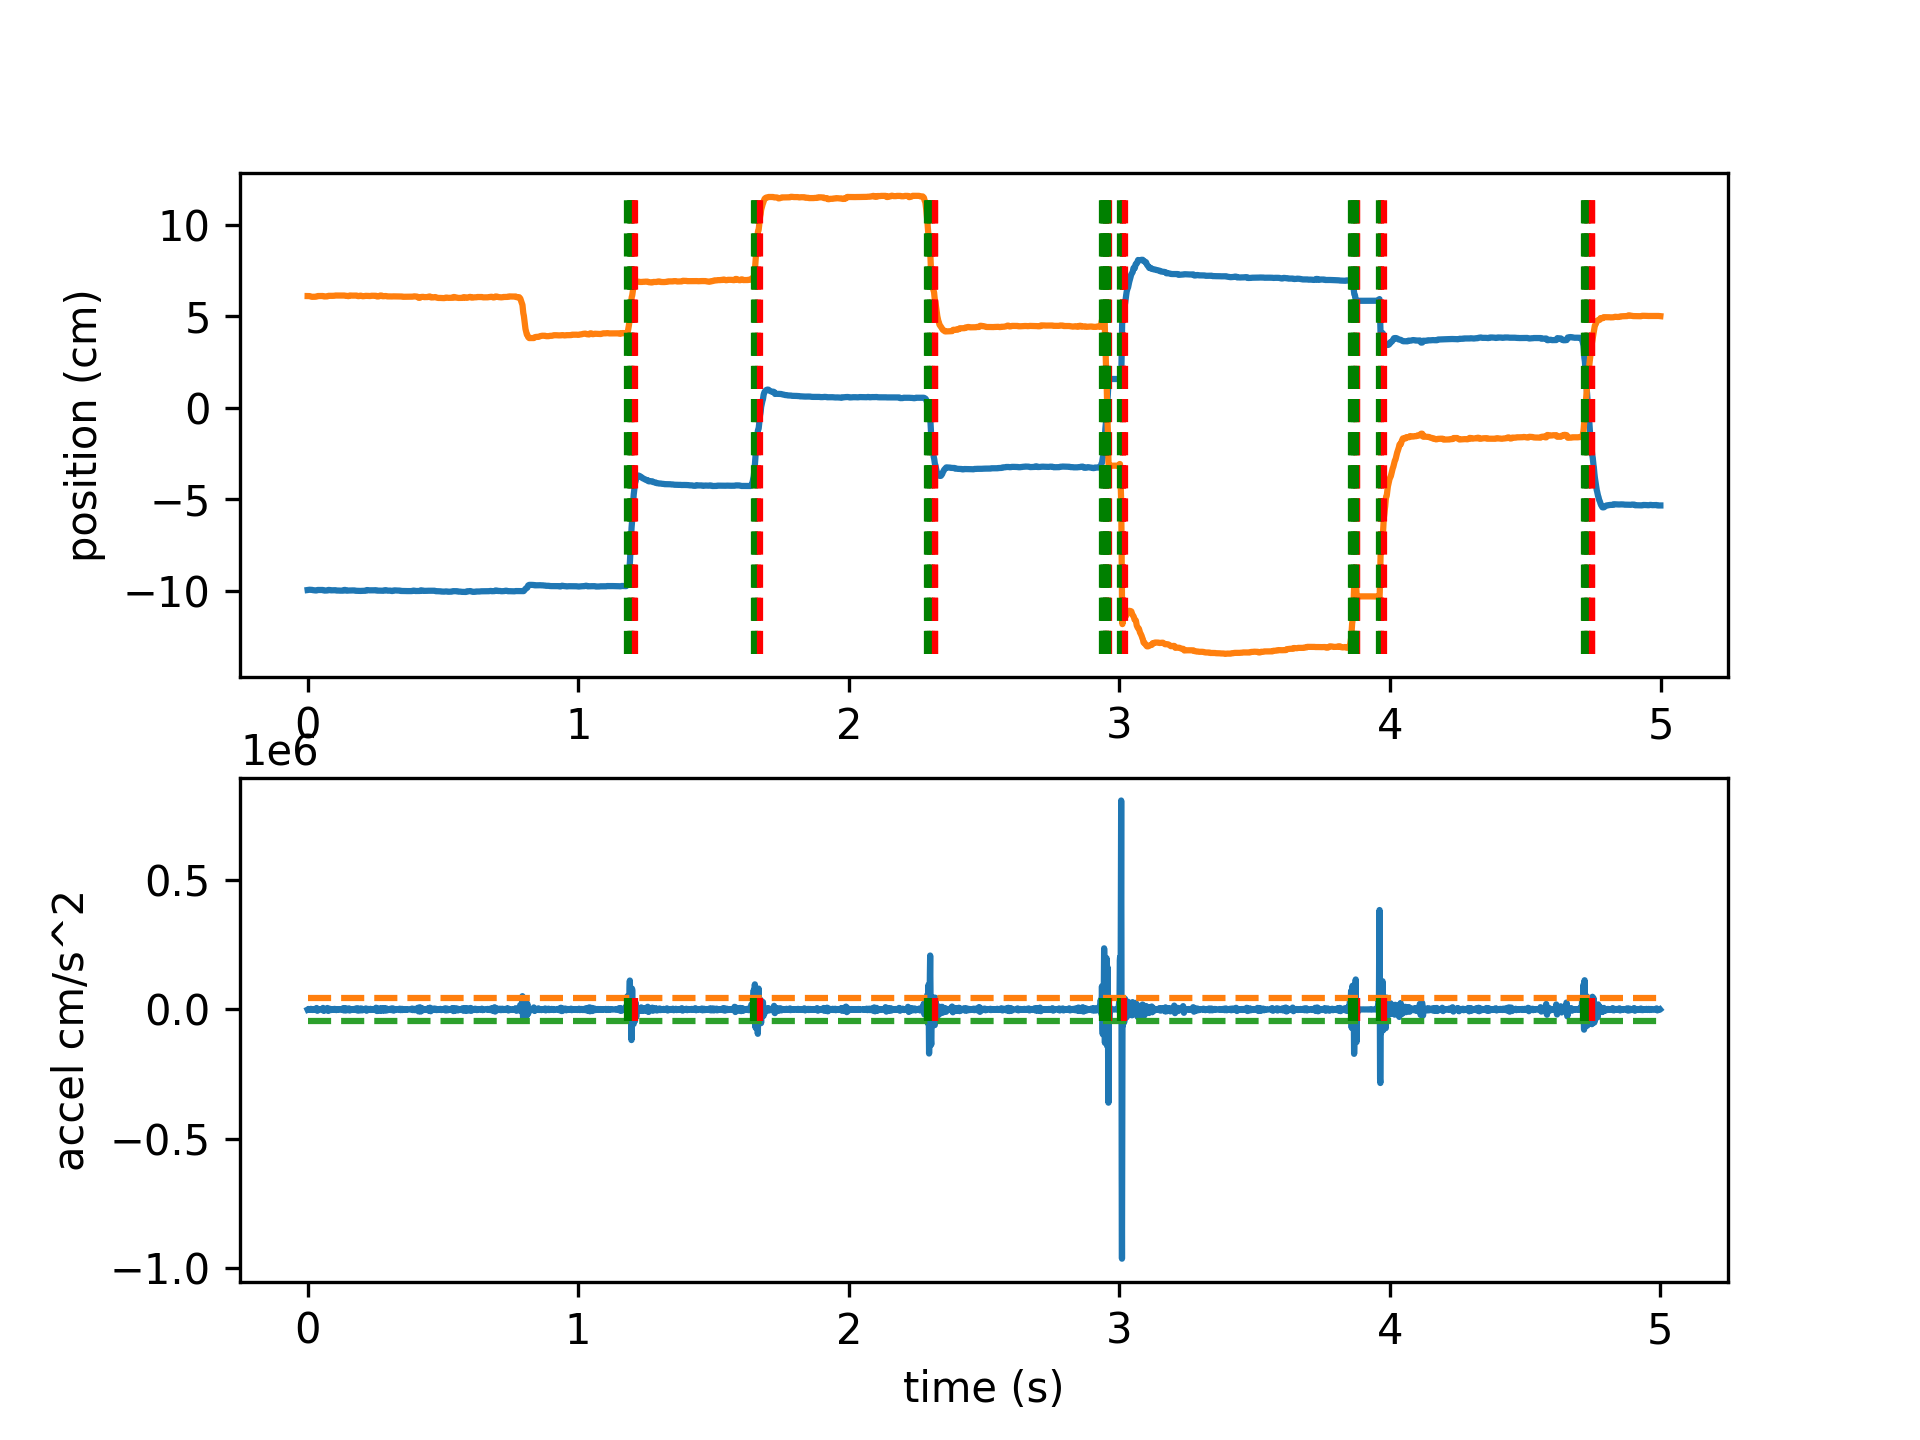
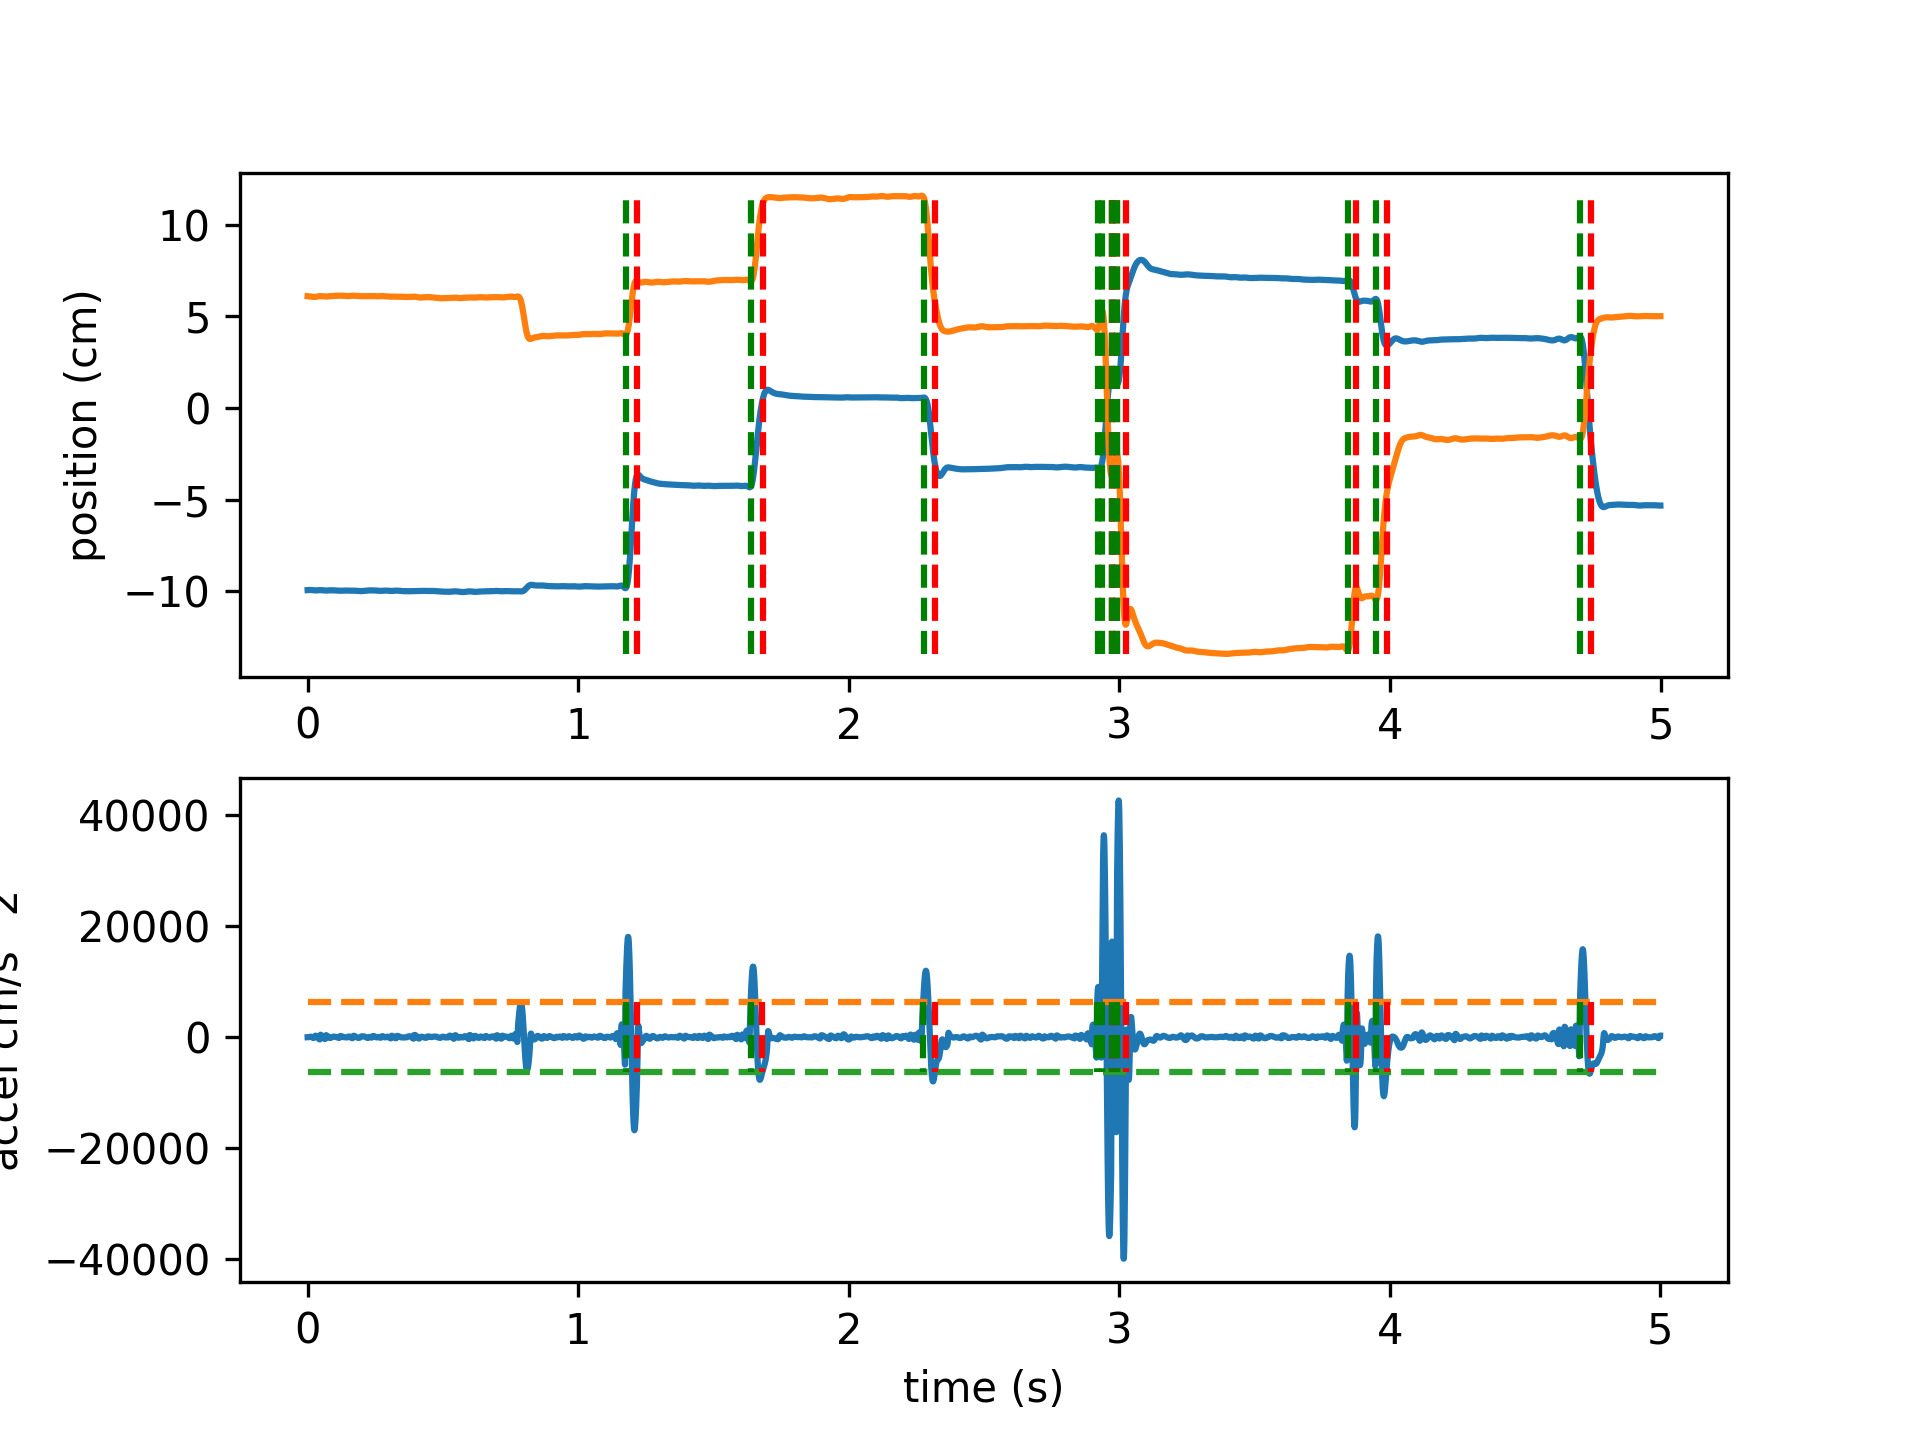
add filtering to detect_saccades

diff --git a/aopy/precondition/eye.py b/aopy/precondition/eye.py
@@ -72,7 +72,7 @@ def convert_pos_to_accel(eye_pos, samplerate):
 
 def detect_saccades(eye_pos, samplerate, thr=None, num_sd=1.5, intersaccade_min=None, 
                     min_saccade_duration=0.015, max_saccade_duration=0.16, 
-                    debug=False, debug_window=(0, 2)):
+                    lowpass_filter_freq=30, debug=False, debug_window=(0, 2)):
     '''
     Detect saccades from eye kinematics data. Uses thresholding of the kinematics 
     to find putative saccades, then ensures that saccades are spaced by some 
@@ -103,6 +103,7 @@ def detect_saccades(eye_pos, samplerate, thr=None, num_sd=1.5, intersaccade_min=
         intersaccade_min (float, optional): minimum time (in seconds) allowed between saccades (from offset to next onset)
         min_saccade_duration (float, optional): minimum time (in seconds) that a saccade can take (inclusive)
         max_saccade_duration (float, optional): maximum time (in seconds) that a saccade can take (exclusive)
+        lowpass_filter_freq (float, optional): frequency in Hz to low-pass filter. If None, no filtering will take place. Default 30 Hz. 
         debug (bool, optional): if True, display a figure showing the threshold crossings
         debug_window (tuple, optional): (start, end) time (in seconds) for the debug figure
         
@@ -117,9 +118,9 @@ def detect_saccades(eye_pos, samplerate, thr=None, num_sd=1.5, intersaccade_min=
     " (positive thr, negative thr)"
     assert (intersaccade_min is None) or intersaccade_min < max_saccade_duration, "Max saccade"
     " duration must be longer than the minimum intersaccade interval"
-    if samplerate != 1000:
-        print("Warning: this function works best with eye data that has been low-pass filtered below 30 Hz")
-
+    
+    if lowpass_filter_freq is not None:
+        eye_pos = filter_eye(eye_pos, samplerate, samplerate, low_cut=lowpass_filter_freq)    
     eye_accel = convert_pos_to_accel(eye_pos, samplerate)
 
     # Set an appropritate threshold to detect saccades
